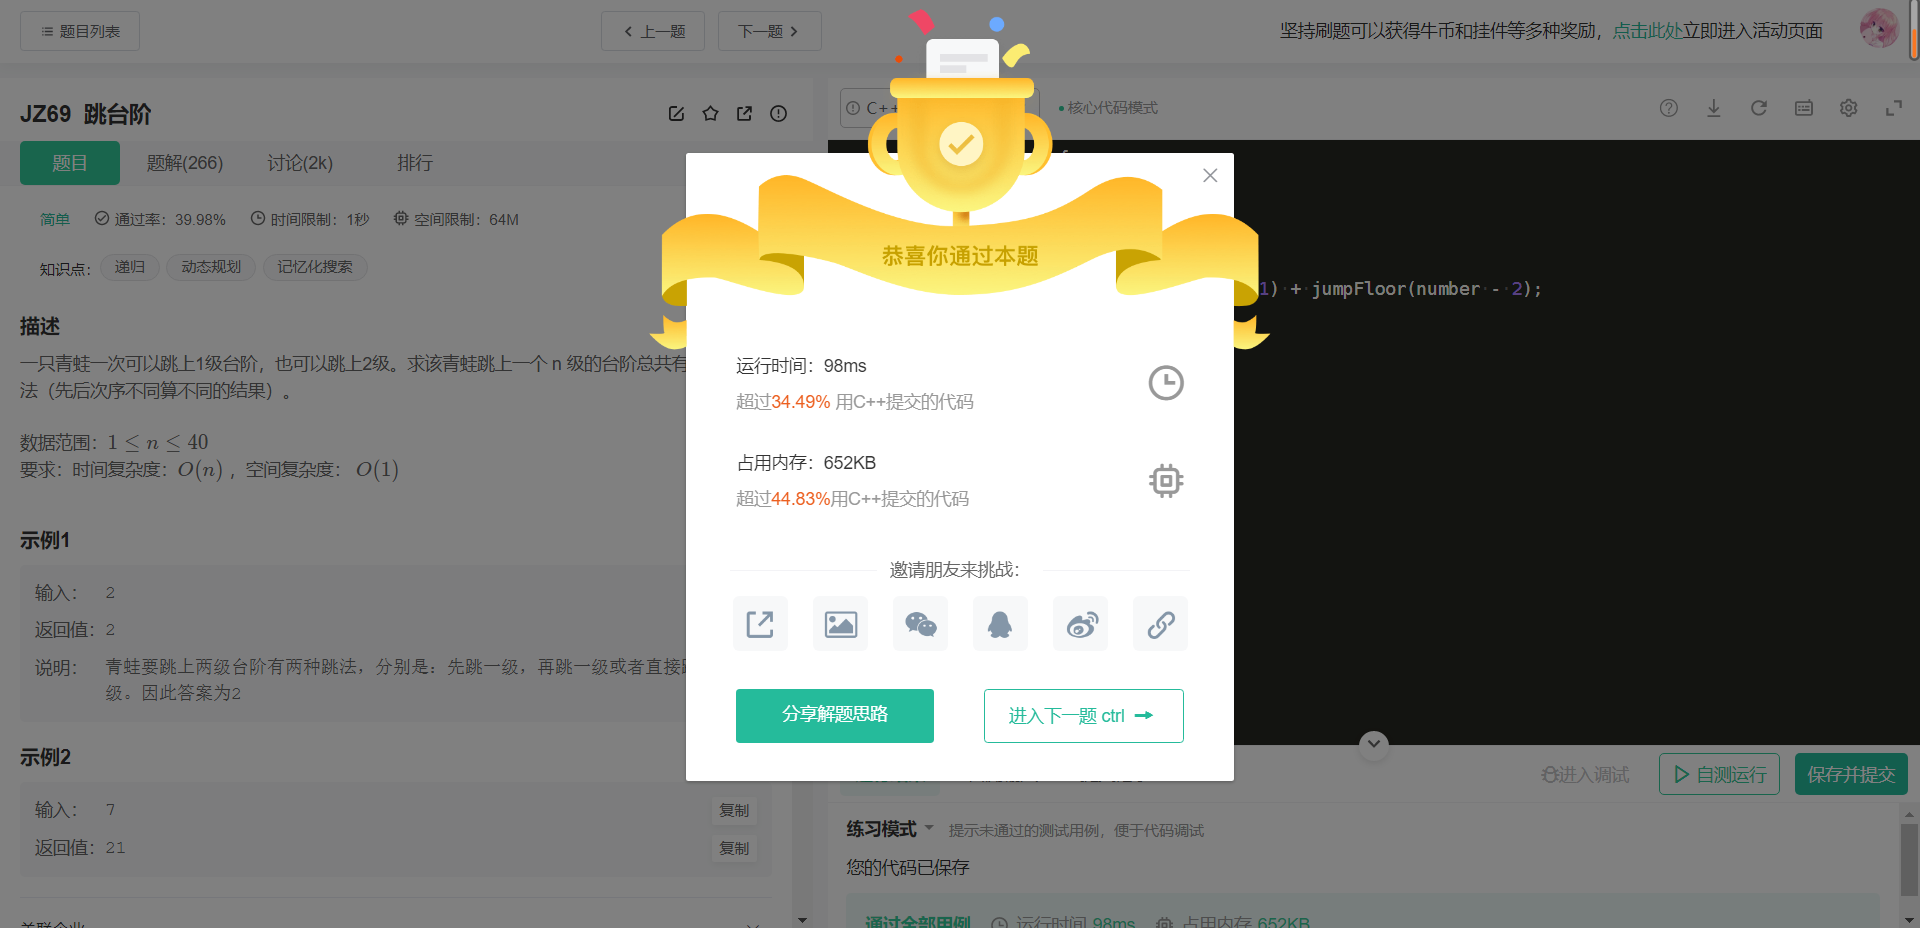
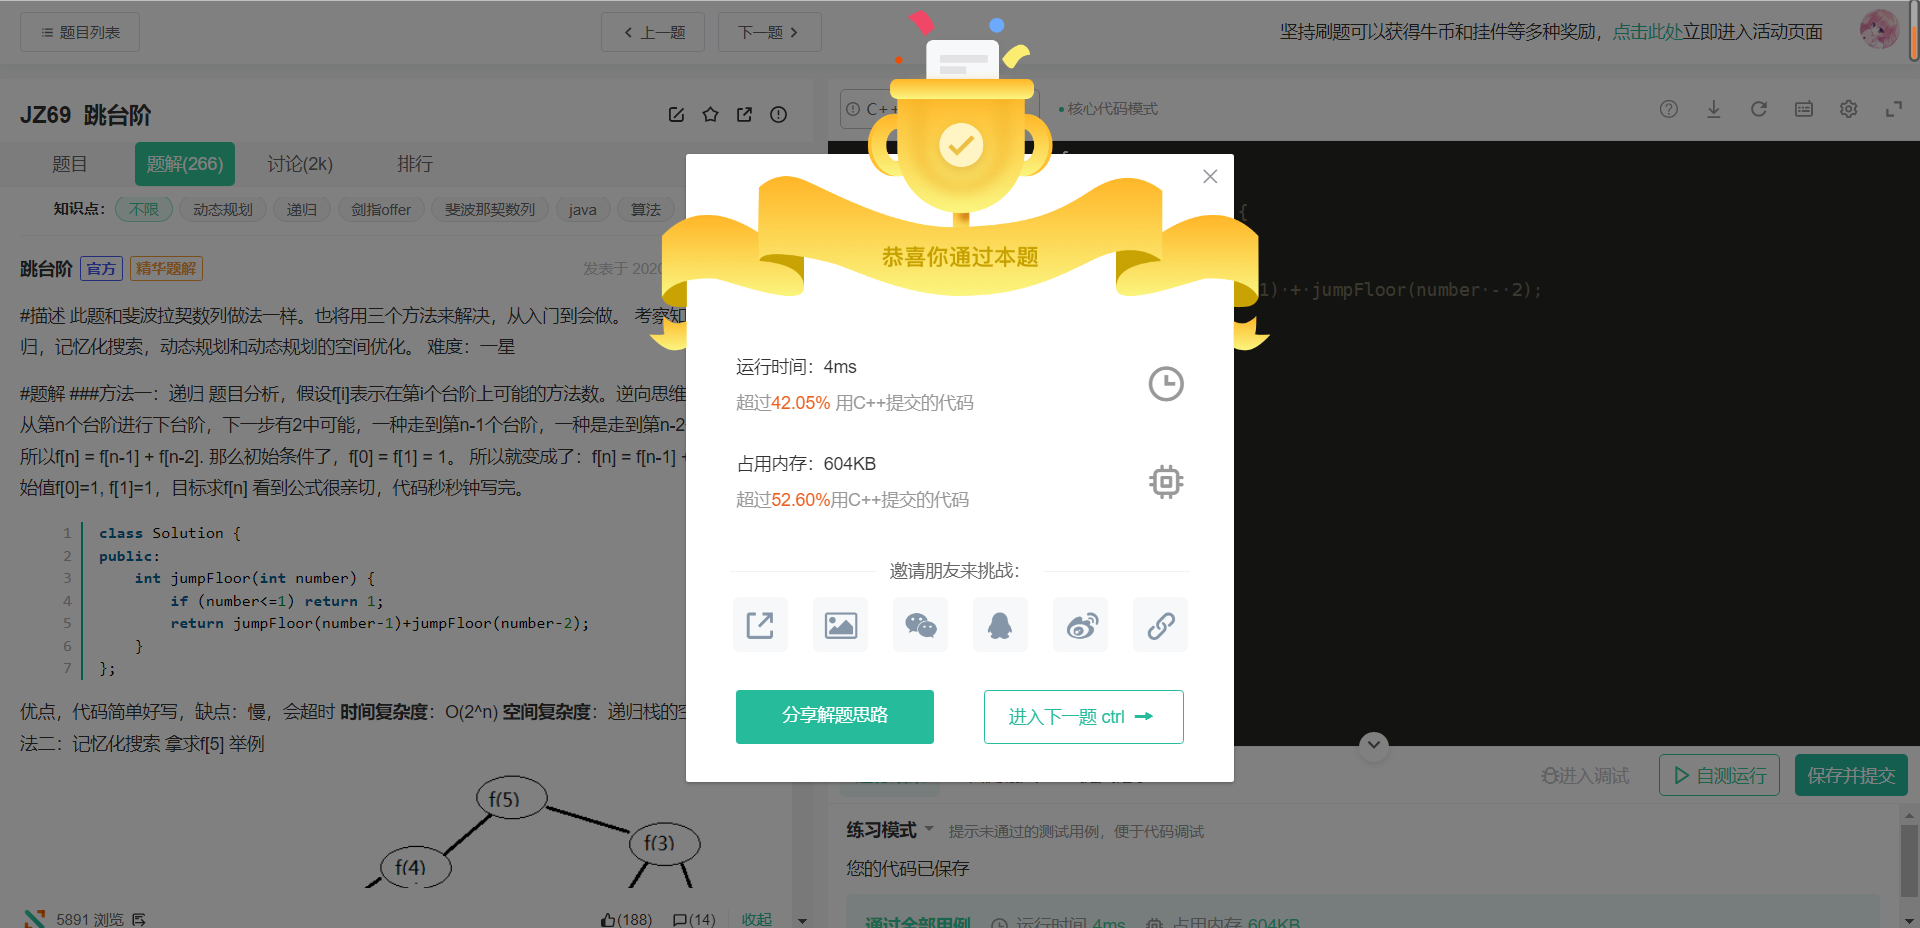
JZ69 跳台阶

diff --git a/nowcoder/JZ69 跳台阶/JZ69.cpp b/nowcoder/JZ69 跳台阶/JZ69.cpp
@@ -1,8 +1,22 @@
 class Solution {
 public:
-    int jumpFloor(int number) {
-        if (number <= 2)
+    /*int jumpFloor(int number) {
+        if(number <= 2)
             return number;
         return jumpFloor(number - 1) + jumpFloor(number - 2);
+    }*/
+    int jumpFloor(int number)
+    {
+        int fn_1 = 1;
+        int fn_2 = 0;
+        int fn = 0;
+        while (number--)
+        {
+            fn = fn_1 + fn_2;
+            fn_2 = fn_1;
+            fn_1 = fn;
+        }
+        return fn;
     }
+
 };
